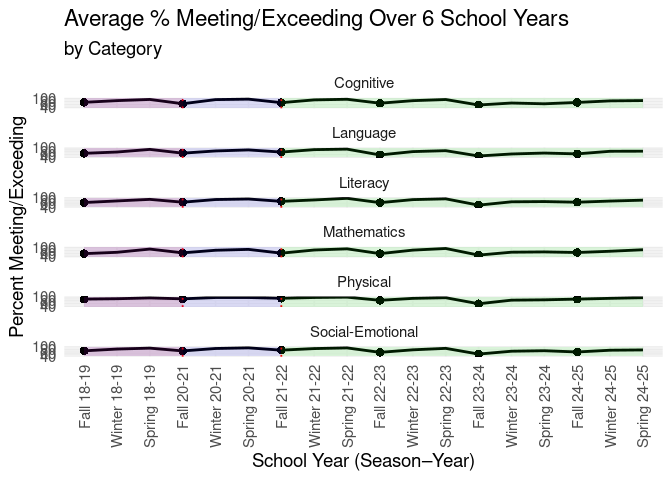
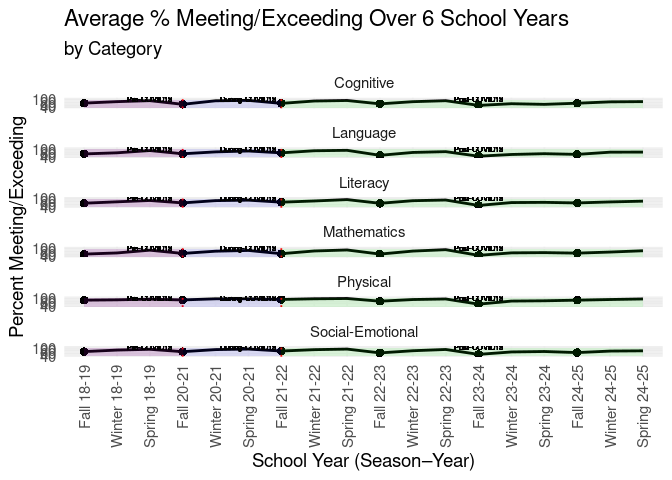
edit IEP graph

diff --git a/proposal/proposal.md b/proposal/proposal.md
@@ -344,25 +344,6 @@ average_general_data_table <- average_general_data_table |>
     .groups = "drop"
   )
 
-average_general_data_table 
-```
-
-    ## # A tibble: 108 × 5
-    ##    Category  label        sort_num is_fall `Avg Meeting Exceeding`
-    ##    <chr>     <fct>           <dbl> <lgl>                     <dbl>
-    ##  1 Cognitive Fall 18-19        181 TRUE                       74.4
-    ##  2 Cognitive Winter 18-19      182 FALSE                      85.1
-    ##  3 Cognitive Spring 18-19      183 FALSE                      92.5
-    ##  4 Cognitive Fall 20-21        201 TRUE                       65.5
-    ##  5 Cognitive Winter 20-21      202 FALSE                      91.4
-    ##  6 Cognitive Spring 20-21      203 FALSE                      94.4
-    ##  7 Cognitive Fall 21-22        211 TRUE                       72.3
-    ##  8 Cognitive Winter 21-22      212 FALSE                      89.7
-    ##  9 Cognitive Spring 21-22      213 FALSE                      93.6
-    ## 10 Cognitive Fall 22-23        221 TRUE                       68.9
-    ## # ℹ 98 more rows
-
-``` r
 #plotting
 average_general_data_plot <- ggplot(average_general_data_table, aes(x = label, y = `Avg Meeting Exceeding`, group = Category)) +
   geom_line(size = 1) +
@@ -372,8 +353,17 @@ average_general_data_plot <- ggplot(average_general_data_table, aes(x = label, y
   annotate("rect", xmin="Fall 18-19", xmax="Fall 20-21", ymin = 40, ymax = 100, alpha = 0.1, fill = "red")+
   annotate("rect", xmin="Fall 18-19", xmax="Fall 21-22", ymin = 40, ymax = 100, alpha = 0.1, fill = "blue")+
   annotate("rect", xmin="Fall 21-22", xmax="Spring 24-25", ymin = 40, ymax = 100, alpha = 0.1, fill = "green")+
+  geom_text( 
+    aes(x = "Spring 18-19", y = 105, label = "Pre-COVID19"),
+    size = 2) +
+  geom_text( 
+    aes(x = "Spring 20-21", y = 105, label = "During-COVID19"),
+    size = 2) +
+  geom_text( 
+    aes(x = "Fall 23-24", y = 105, label = "Post-COVID19"),
+    size = 2) +
   facet_wrap(~ Category, ncol = 1) +
-  ylim(40, 100)+
+  ylim(40, 110)+
   labs(
     title = "Average % Meeting/Exceeding Over 6 School Years",
     subtitle = "by Category",
@@ -496,78 +486,51 @@ covid_plot
 ![](proposal_files/figure-gfm/unnamed-chunk-2-1.png)<!-- -->
 
 ``` r
-all_years_raw <- list(
-  X2020_2021,
-  X2021_2022,
-  X2022_2023,
-  X2023_2024,
-  X2024_2025
-)
-numeric_cols <- c("# Children",
-                  "# Meeting / Exceeding",
-                  "% Meeting / Exceeding")
+all_year <- general_data_table |>
+  mutate(IEP = na_if(IEP, "N/A")) |>
+  filter(!is.na(IEP))
 
-all_years_raw_fixed <- map(
-  all_years_raw,
-  ~ .x %>%
-    mutate(
-      across(
-        any_of(numeric_cols),
-        ~ as.numeric(gsub("[^0-9.]", "", as.character(.)))
-      )
-    )
-)
-all_years <- bind_rows(all_years_raw_fixed)
+IEP_data <- all_year |>
+  mutate(is_fall = (`season` == "Fall"))
 
-all_years <- all_years |>
-  mutate(
-    IEP = na_if(IEP, "N/A")
-  )
+IEP_data
+```
 
-IEP_data <- all_years |>
-  filter(!is.na(IEP)) |>
-  group_by(Category, IEP, `Time Period`) |>
-  summarise(
-    n_children = sum(`# Children`, na.rm = TRUE),
-    n_meeting  = sum(`# Meeting / Exceeding`, na.rm = TRUE),
-    .groups = "drop"
-  ) |>
-  mutate(
-    pct_meeting = 100 * n_meeting / n_children
-  ) |>
-  filter(!is.na(pct_meeting)) |>
-  mutate(
-    TimePeriod_f = factor(
-      `Time Period`,
-      levels = sort(unique(`Time Period`))
-    )
-  )
+    ## # A tibble: 324 × 12
+    ##    Category         `# Children` Age   IEP   `# Meeting / Exceeding`
+    ##    <chr>                   <dbl> <chr> <chr>                   <dbl>
+    ##  1 Social-Emotional            7 3-4   Yes                         5
+    ##  2 Social-Emotional           19 4-5   Yes                         8
+    ##  3 Social-Emotional           30 3-4   No                         26
+    ##  4 Social-Emotional           65 4-5   No                         48
+    ##  5 Physical                    8 3-4   Yes                         7
+    ##  6 Physical                   21 4-5   Yes                        15
+    ##  7 Physical                   30 3-4   No                         28
+    ##  8 Physical                   67 4-5   No                         58
+    ##  9 Language                    8 3-4   Yes                         3
+    ## 10 Language                   21 4-5   Yes                        12
+    ## # ℹ 314 more rows
+    ## # ℹ 7 more variables: `% Meeting / Exceeding` <dbl>, `Time Period` <chr>,
+    ## #   year <chr>, season <chr>, label <fct>, sort_num <dbl>, is_fall <lgl>
 
-IEP_data <- IEP_data |>
-  mutate(
-    Season = str_extract(`Time Period`, "^(Fall|Winter|Spring)"))
-
-IEP_data <- IEP_data |>
-  mutate(is_fall = Season == "Fall")
-
-ggplot(
+``` r
+iep_graph <- ggplot(
   IEP_data,
-  aes(x = TimePeriod_f, y = pct_meeting,
-      fill = IEP, group = IEP)
+  aes(x = `label`, y = `% Meeting / Exceeding`, fill = IEP, group = IEP)
 ) +
   geom_area(position = "identity", alpha = 0.4) +
   geom_line(aes(color = IEP), size = 1) +
   geom_point(aes(size = ifelse(is_fall, 4, NA)), shape = 21 , stroke = 0) +
-  geom_vline(xintercept = "Fall 2022/2023") +
+  geom_vline(xintercept = "Fall 22-23") +
   geom_text( 
-    aes(x = "Fall 2023/2024", y = 105, label = "During-COVID19"),
+    aes(x = "Fall 23-24", y = 105, label = "During-COVID19"),
     size = 2) +
   geom_text( 
-    aes(x = "Spring 2020/2021", y = 105, label = "During-COVID19"),
+    aes(x = "Spring 20-21", y = 105, label = "During-COVID19"),
     size = 2) +
   facet_wrap(~ Category) +
   labs(
-    title = "Aacdemic Performances by Different IEP status During and Post COVID-19",
+    title = "Academic Performances by Different IEP status During and Post COVID-19",
     x = "Season / School Year",
     y = "% Meeting / Exceeding (%)",
     subtitle = "Grouped by Category ",
@@ -581,9 +544,40 @@ ggplot(
     legend.position = "bottom",
     strip.text = element_text(face = "bold")
   )
+
+iep_graph
 ```
 
-    ## Warning: Removed 72 rows containing missing values or values outside the scale range
+    ## Warning: Removed 1 row containing non-finite outside the scale range
+    ## (`stat_align()`).
+
+    ## Warning: Removed 217 rows containing missing values or values outside the scale range
     ## (`geom_point()`).
 
 ![](proposal_files/figure-gfm/unnamed-chunk-3-1.png)<!-- -->
+
+``` r
+ggsave("iep_impact.png", iep_graph, width = 15, height = 10, dpi = 300)
+```
+
+    ## Warning: Removed 1 row containing non-finite outside the scale range (`stat_align()`).
+    ## Removed 217 rows containing missing values or values outside the scale range
+    ## (`geom_point()`).
+
+
+
+    all_year <- general_data_table |>
+      mutate(IEP = na_if(IEP, "N/A")) |>
+      filter(!is.na(IEP))
+
+    IEP_data <- all_year |>
+      filter(!is.na(IEP)) |>
+      group_by(Category, IEP, `Time Period`) |>
+      summarise(
+        n_children = sum(`# Children`, na.rm = TRUE),
+        n_meeting  = sum(`# Meeting / Exceeding`, na.rm = TRUE),
+        .groups = "drop"
+      ) |>
+      mutate(pct_meeting = 100 * n_meeting / n_children
+      ) |>
+      filter(!is.na(pct_meeting))
